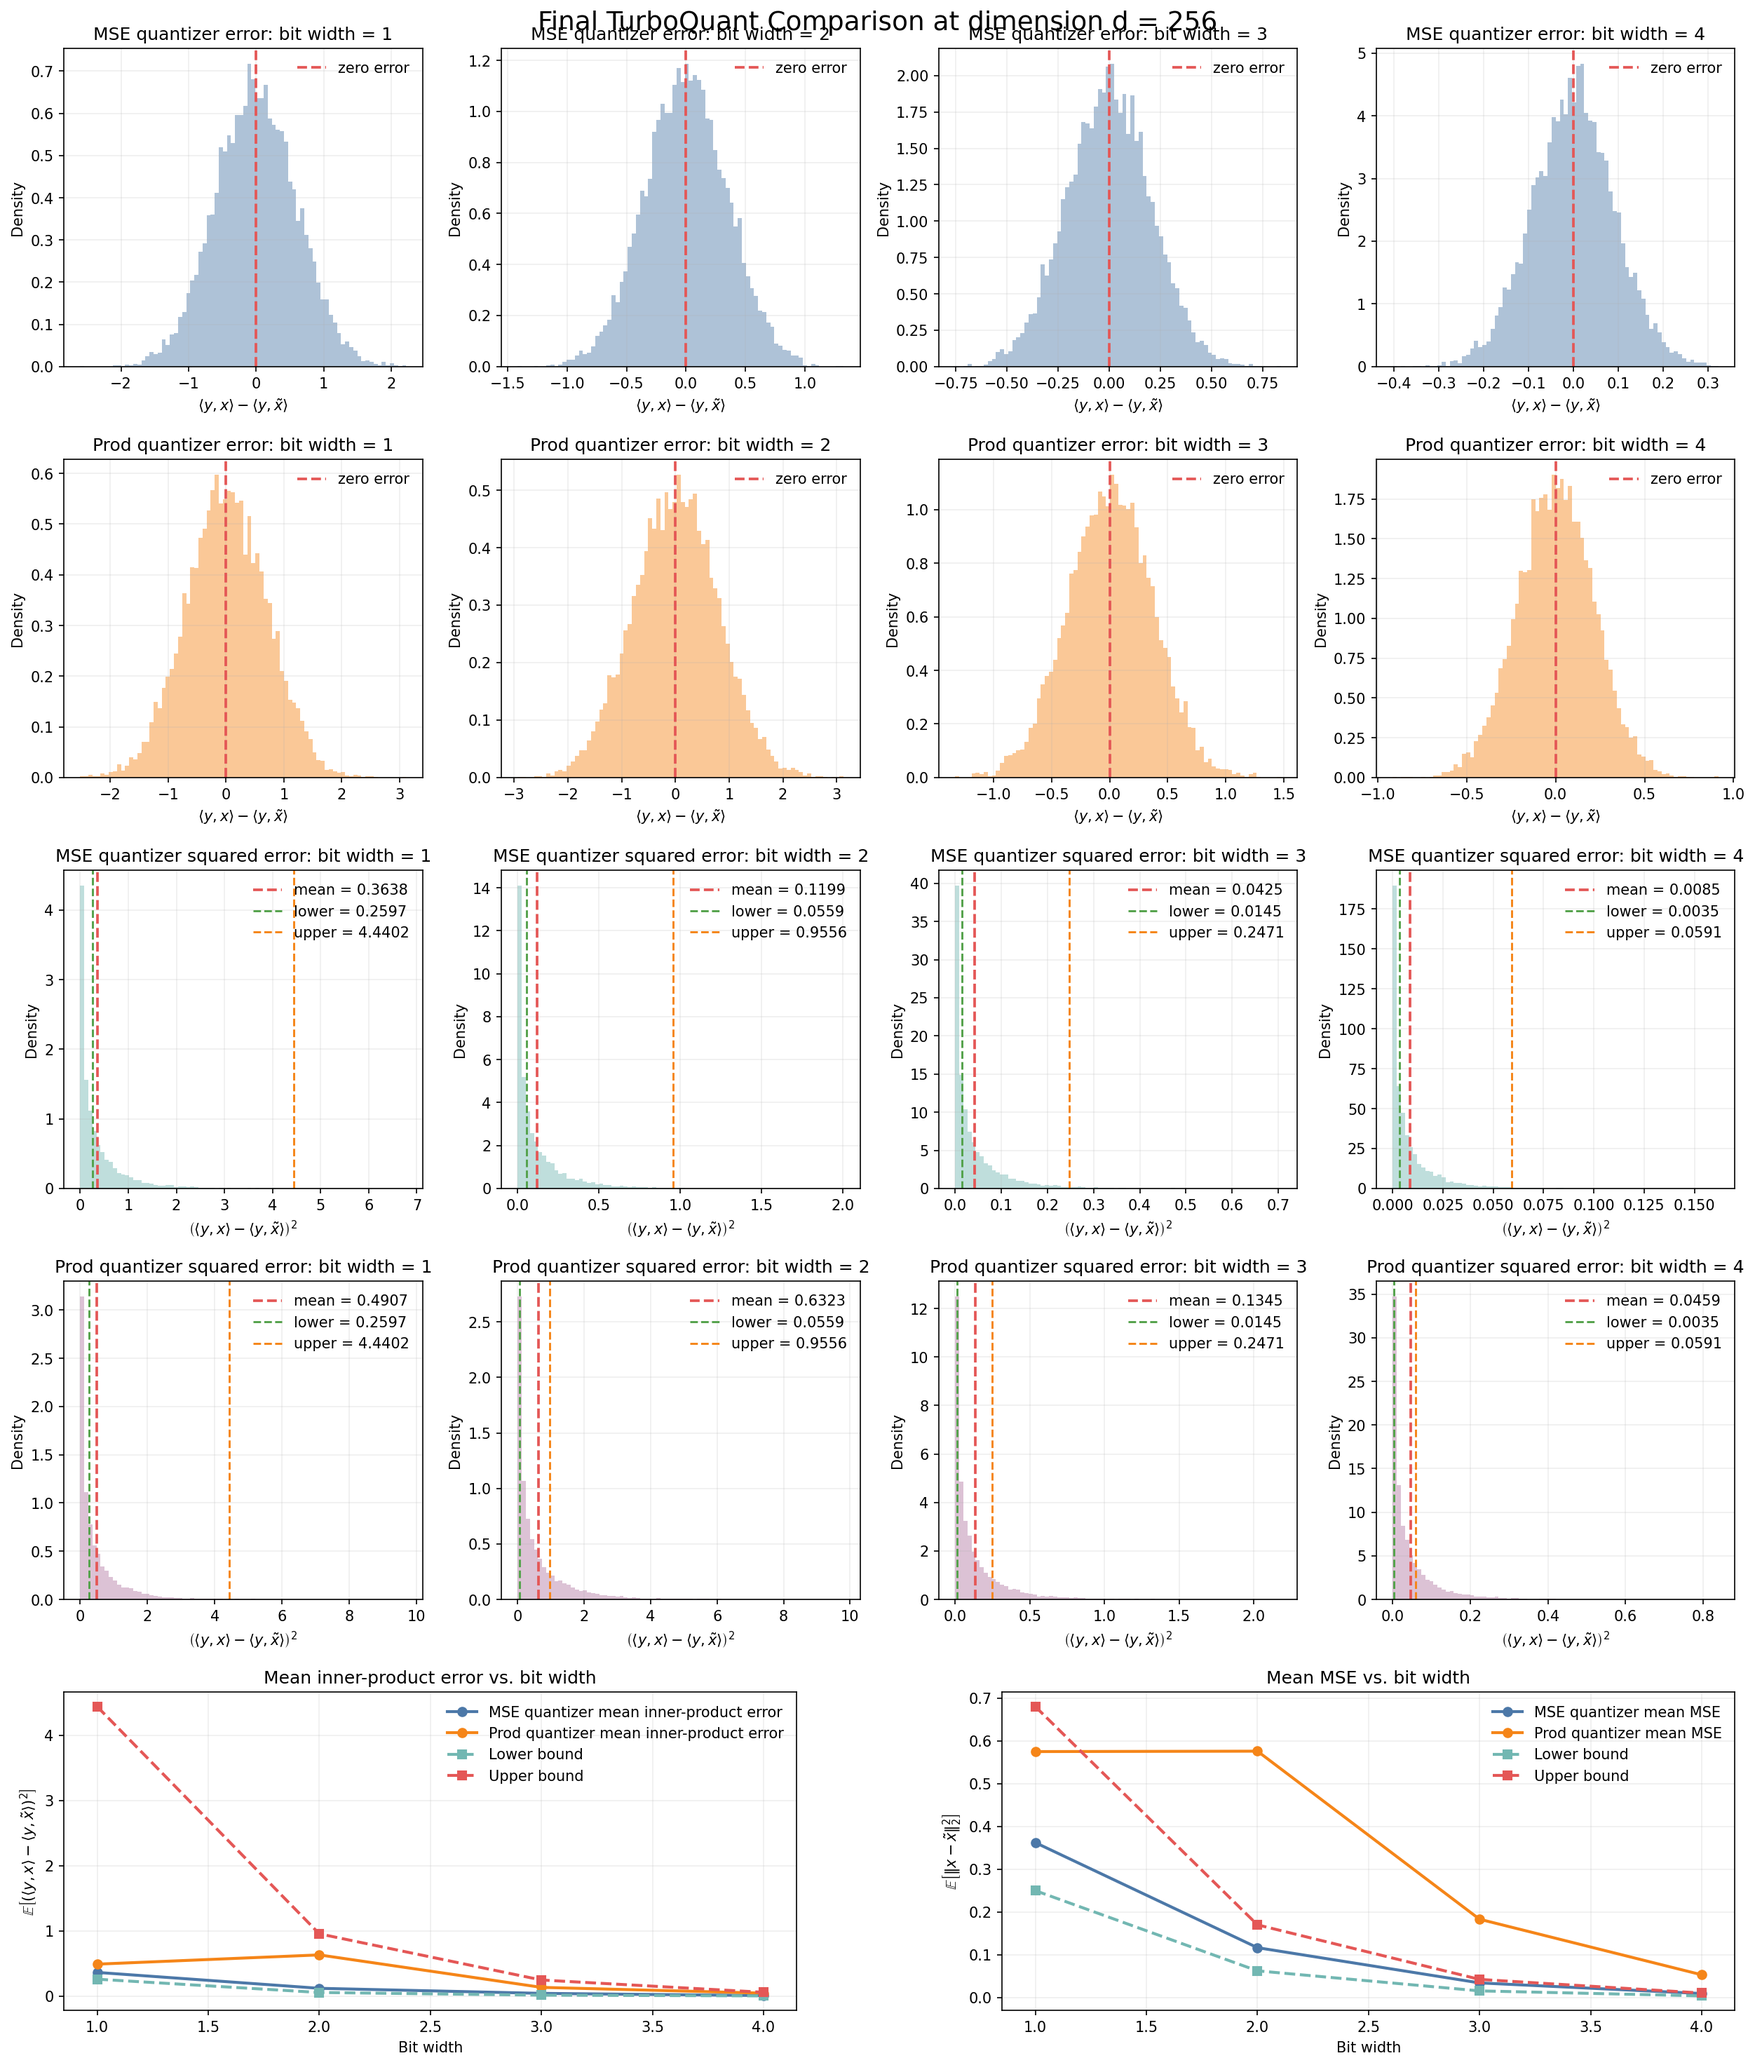
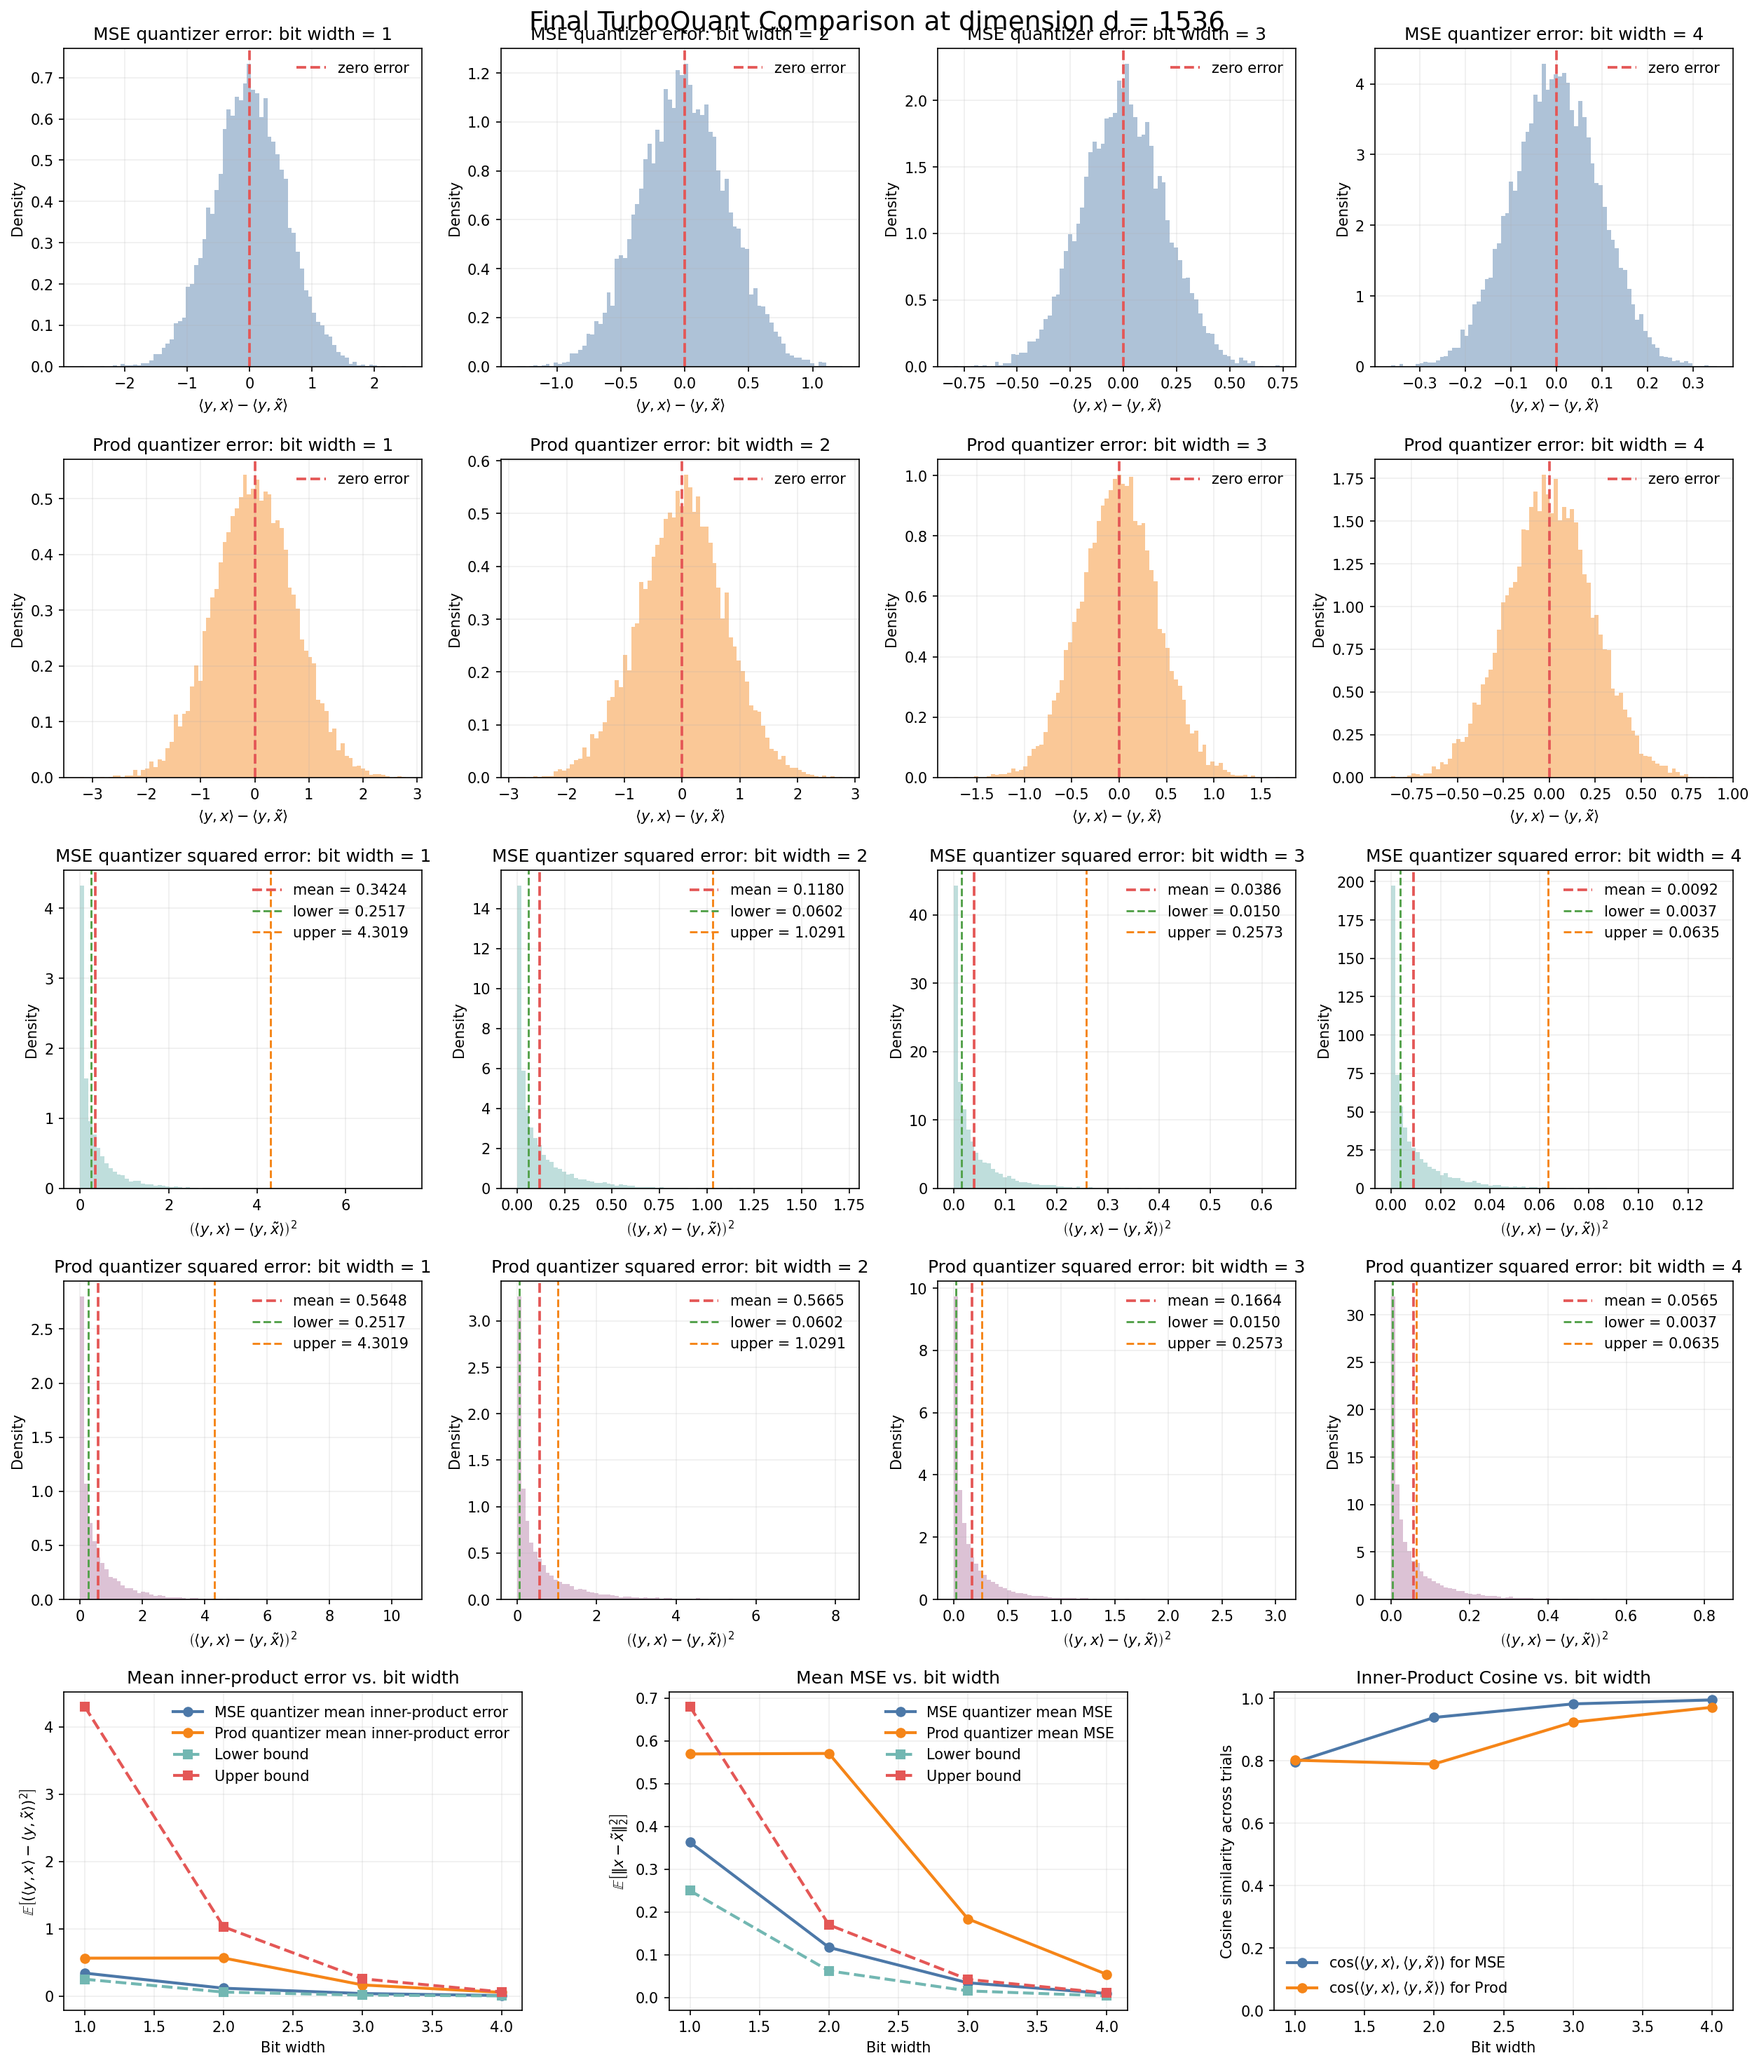
add cosine similarity

diff --git a/10.TurboQuant_final_simulation_fix.py b/10.TurboQuant_final_simulation_fix.py
@@ -15,6 +15,10 @@ def sample_unit_vector(dimension: int, rng: np.random.Generator) -> np.ndarray:
     return vector / np.linalg.norm(vector)
 
 
+def cosine_similarity(x: np.ndarray, y: np.ndarray) -> float:
+    return float(np.dot(x, y) / (np.linalg.norm(x) * np.linalg.norm(y)))
+
+
 def run_method_trials(
     method_name: str,
     dimension: int,
@@ -45,6 +49,8 @@ def run_method_trials(
     d_mse_values = np.zeros(num_trials, dtype=np.float64)
     d_prod_values = np.zeros(num_trials, dtype=np.float64)
     prod_error_values = np.zeros(num_trials, dtype=np.float64)
+    true_inner_values = np.zeros(num_trials, dtype=np.float64)
+    recon_inner_values = np.zeros(num_trials, dtype=np.float64)
 
     for trial in range(num_trials):
         x = sample_unit_vector(dimension, rng)
@@ -58,9 +64,13 @@ def run_method_trials(
 
         difference = x - x_hat
         d_mse_values[trial] = float(np.sum(difference**2))
-        prod_error = float(np.dot(y, x) - np.dot(y, x_hat))
+        true_inner = float(np.dot(y, x))
+        recon_inner = float(np.dot(y, x_hat))
+        prod_error = true_inner - recon_inner
         prod_error_values[trial] = prod_error
         d_prod_values[trial] = float(prod_error**2)
+        true_inner_values[trial] = true_inner
+        recon_inner_values[trial] = recon_inner
 
     mse_lower_bound = 1.0 / (4.0**bit_width)
     mse_upper_bound = (math.sqrt(3.0) * math.pi / 2.0) * mse_lower_bound
@@ -72,8 +82,11 @@ def run_method_trials(
         "d_mse_values": d_mse_values,
         "d_prod_values": d_prod_values,
         "prod_error_values": prod_error_values,
+        "true_inner_values": true_inner_values,
+        "recon_inner_values": recon_inner_values,
         "mean_d_mse": float(np.mean(d_mse_values)),
         "mean_d_prod": float(np.mean(d_prod_values)),
+        "inner_cosine": cosine_similarity(true_inner_values, recon_inner_values),
         "mse_lower_bound": mse_lower_bound,
         "mse_upper_bound": mse_upper_bound,
         "prod_lower_bound": prod_lower_bound,
@@ -96,9 +109,10 @@ def plot_final_simulation(
     prod_error_axes = [fig.add_subplot(grid[1, col]) for col in range(num_cols)]
     mse_sq_error_axes = [fig.add_subplot(grid[2, col]) for col in range(num_cols)]
     prod_sq_error_axes = [fig.add_subplot(grid[3, col]) for col in range(num_cols)]
-    summary_grid = grid[4, :].subgridspec(1, 2, wspace=0.28)
+    summary_grid = grid[4, :].subgridspec(1, 3, wspace=0.32)
     prod_summary_ax = fig.add_subplot(summary_grid[0, 0])
     mse_summary_ax = fig.add_subplot(summary_grid[0, 1])
+    cosine_summary_ax = fig.add_subplot(summary_grid[0, 2])
 
     mse_mean_prod_errors = []
     prod_mean_prod_errors = []
@@ -109,6 +123,8 @@ def plot_final_simulation(
     prod_mean_mse = []
     mse_lower_bounds = []
     mse_upper_bounds = []
+    mse_inner_cosines = []
+    prod_inner_cosines = []
 
     for idx, bit_width in enumerate(bit_widths):
         mse_result = run_method_trials(
@@ -247,6 +263,8 @@ def plot_final_simulation(
         prod_mean_mse.append(float(prod_result["mean_d_mse"]))
         mse_lower_bounds.append(float(mse_result["mse_lower_bound"]))
         mse_upper_bounds.append(float(mse_result["mse_upper_bound"]))
+        mse_inner_cosines.append(float(mse_result["inner_cosine"]))
+        prod_inner_cosines.append(float(prod_result["inner_cosine"]))
 
     prod_summary_ax.plot(
         bit_widths,
@@ -328,6 +346,29 @@ def plot_final_simulation(
     mse_summary_ax.grid(alpha=0.2)
     mse_summary_ax.legend(frameon=False)
 
+    cosine_summary_ax.plot(
+        bit_widths,
+        mse_inner_cosines,
+        marker="o",
+        linewidth=2.0,
+        color="#4C78A8",
+        label=r"$\cos(\langle y,x\rangle,\langle y,\tilde{x}\rangle)$ for MSE",
+    )
+    cosine_summary_ax.plot(
+        bit_widths,
+        prod_inner_cosines,
+        marker="o",
+        linewidth=2.0,
+        color="#F58518",
+        label=r"$\cos(\langle y,x\rangle,\langle y,\tilde{x}\rangle)$ for Prod",
+    )
+    cosine_summary_ax.set_title("Inner-Product Cosine vs. bit width")
+    cosine_summary_ax.set_xlabel("Bit width")
+    cosine_summary_ax.set_ylabel("Cosine similarity across trials")
+    cosine_summary_ax.set_ylim(0.0, 1.02)
+    cosine_summary_ax.grid(alpha=0.2)
+    cosine_summary_ax.legend(frameon=False)
+
     fig.suptitle(f"Final TurboQuant Comparison at dimension d = {dimension}", fontsize=18)
     fig.tight_layout()
     fig.savefig(output_path, dpi=150, bbox_inches="tight")
@@ -335,7 +376,7 @@ def plot_final_simulation(
 
 
 def main() -> None:
-    dimension = 256
+    dimension = 1536
     bit_widths = [1, 2, 3, 4]
     num_trials = 10_000
     output_path = Path("results/10.TurboQuant_final_simulation_fix.png")
@@ -357,6 +398,7 @@ def main() -> None:
     print("1. Inner-product distortion distributions for MSE and Prod quantizers")
     print("2. Mean inner-product distortion vs. lower and upper bounds")
     print("3. Mean MSE vs. lower and upper bounds")
+    print("4. Cosine similarity between <y,x> and <y,x_hat> across trials")
 
 
 if __name__ == "__main__":

diff --git a/10.TurboQuant_final_simulation.py b/10.TurboQuant_final_simulation.py
@@ -15,6 +15,10 @@ def sample_unit_vector(dimension: int, rng: np.random.Generator) -> np.ndarray:
     return vector / np.linalg.norm(vector)
 
 
+def cosine_similarity(x: np.ndarray, y: np.ndarray) -> float:
+    return float(np.dot(x, y) / (np.linalg.norm(x) * np.linalg.norm(y)))
+
+
 def run_method_trials(
     method_name: str,
     dimension: int,
@@ -28,6 +32,8 @@ def run_method_trials(
     d_mse_values = np.zeros(num_trials, dtype=np.float64)
     d_prod_values = np.zeros(num_trials, dtype=np.float64)
     prod_error_values = np.zeros(num_trials, dtype=np.float64)
+    true_inner_values = np.zeros(num_trials, dtype=np.float64)
+    recon_inner_values = np.zeros(num_trials, dtype=np.float64)
 
     for trial in range(num_trials):
         if method_name == "mse":
@@ -58,9 +64,13 @@ def run_method_trials(
 
         difference = x - x_hat
         d_mse_values[trial] = float(np.sum(difference**2))
-        prod_error = float(np.dot(y, x) - np.dot(y, x_hat))
+        true_inner = float(np.dot(y, x))
+        recon_inner = float(np.dot(y, x_hat))
+        prod_error = true_inner - recon_inner
         prod_error_values[trial] = prod_error
         d_prod_values[trial] = float(prod_error**2)
+        true_inner_values[trial] = true_inner
+        recon_inner_values[trial] = recon_inner
 
     mse_lower_bound = 1.0 / (4.0**bit_width)
     mse_upper_bound = (math.sqrt(3.0) * math.pi / 2.0) * mse_lower_bound
@@ -72,8 +82,11 @@ def run_method_trials(
         "d_mse_values": d_mse_values,
         "d_prod_values": d_prod_values,
         "prod_error_values": prod_error_values,
+        "true_inner_values": true_inner_values,
+        "recon_inner_values": recon_inner_values,
         "mean_d_mse": float(np.mean(d_mse_values)),
         "mean_d_prod": float(np.mean(d_prod_values)),
+        "inner_cosine": cosine_similarity(true_inner_values, recon_inner_values),
         "mse_lower_bound": mse_lower_bound,
         "mse_upper_bound": mse_upper_bound,
         "prod_lower_bound": prod_lower_bound,
@@ -96,9 +109,10 @@ def plot_final_simulation(
     prod_error_axes = [fig.add_subplot(grid[1, col]) for col in range(num_cols)]
     mse_sq_error_axes = [fig.add_subplot(grid[2, col]) for col in range(num_cols)]
     prod_sq_error_axes = [fig.add_subplot(grid[3, col]) for col in range(num_cols)]
-    summary_grid = grid[4, :].subgridspec(1, 2, wspace=0.28)
+    summary_grid = grid[4, :].subgridspec(1, 3, wspace=0.32)
     prod_summary_ax = fig.add_subplot(summary_grid[0, 0])
     mse_summary_ax = fig.add_subplot(summary_grid[0, 1])
+    cosine_summary_ax = fig.add_subplot(summary_grid[0, 2])
 
     mse_mean_prod_errors = []
     prod_mean_prod_errors = []
@@ -109,6 +123,8 @@ def plot_final_simulation(
     prod_mean_mse = []
     mse_lower_bounds = []
     mse_upper_bounds = []
+    mse_inner_cosines = []
+    prod_inner_cosines = []
 
     for idx, bit_width in enumerate(bit_widths):
         mse_result = run_method_trials(
@@ -247,6 +263,8 @@ def plot_final_simulation(
         prod_mean_mse.append(float(prod_result["mean_d_mse"]))
         mse_lower_bounds.append(float(mse_result["mse_lower_bound"]))
         mse_upper_bounds.append(float(mse_result["mse_upper_bound"]))
+        mse_inner_cosines.append(float(mse_result["inner_cosine"]))
+        prod_inner_cosines.append(float(prod_result["inner_cosine"]))
 
     prod_summary_ax.plot(
         bit_widths,
@@ -328,6 +346,29 @@ def plot_final_simulation(
     mse_summary_ax.grid(alpha=0.2)
     mse_summary_ax.legend(frameon=False)
 
+    cosine_summary_ax.plot(
+        bit_widths,
+        mse_inner_cosines,
+        marker="o",
+        linewidth=2.0,
+        color="#4C78A8",
+        label=r"$\cos(\langle y,x\rangle,\langle y,\tilde{x}\rangle)$ for MSE",
+    )
+    cosine_summary_ax.plot(
+        bit_widths,
+        prod_inner_cosines,
+        marker="o",
+        linewidth=2.0,
+        color="#F58518",
+        label=r"$\cos(\langle y,x\rangle,\langle y,\tilde{x}\rangle)$ for Prod",
+    )
+    cosine_summary_ax.set_title("Inner-Product Cosine vs. bit width")
+    cosine_summary_ax.set_xlabel("Bit width")
+    cosine_summary_ax.set_ylabel("Cosine similarity across trials")
+    cosine_summary_ax.set_ylim(0.0, 1.02)
+    cosine_summary_ax.grid(alpha=0.2)
+    cosine_summary_ax.legend(frameon=False)
+
     fig.suptitle(f"Final TurboQuant Comparison at dimension d = {dimension}", fontsize=18)
     fig.tight_layout()
     fig.savefig(output_path, dpi=150, bbox_inches="tight")
@@ -357,6 +398,7 @@ def main() -> None:
     print("1. Inner-product distortion distributions for MSE and Prod quantizers")
     print("2. Mean inner-product distortion vs. lower and upper bounds")
     print("3. Mean MSE vs. lower and upper bounds")
+    print("4. Cosine similarity between <y,x> and <y,x_hat> across trials")
 
 
 if __name__ == "__main__":
